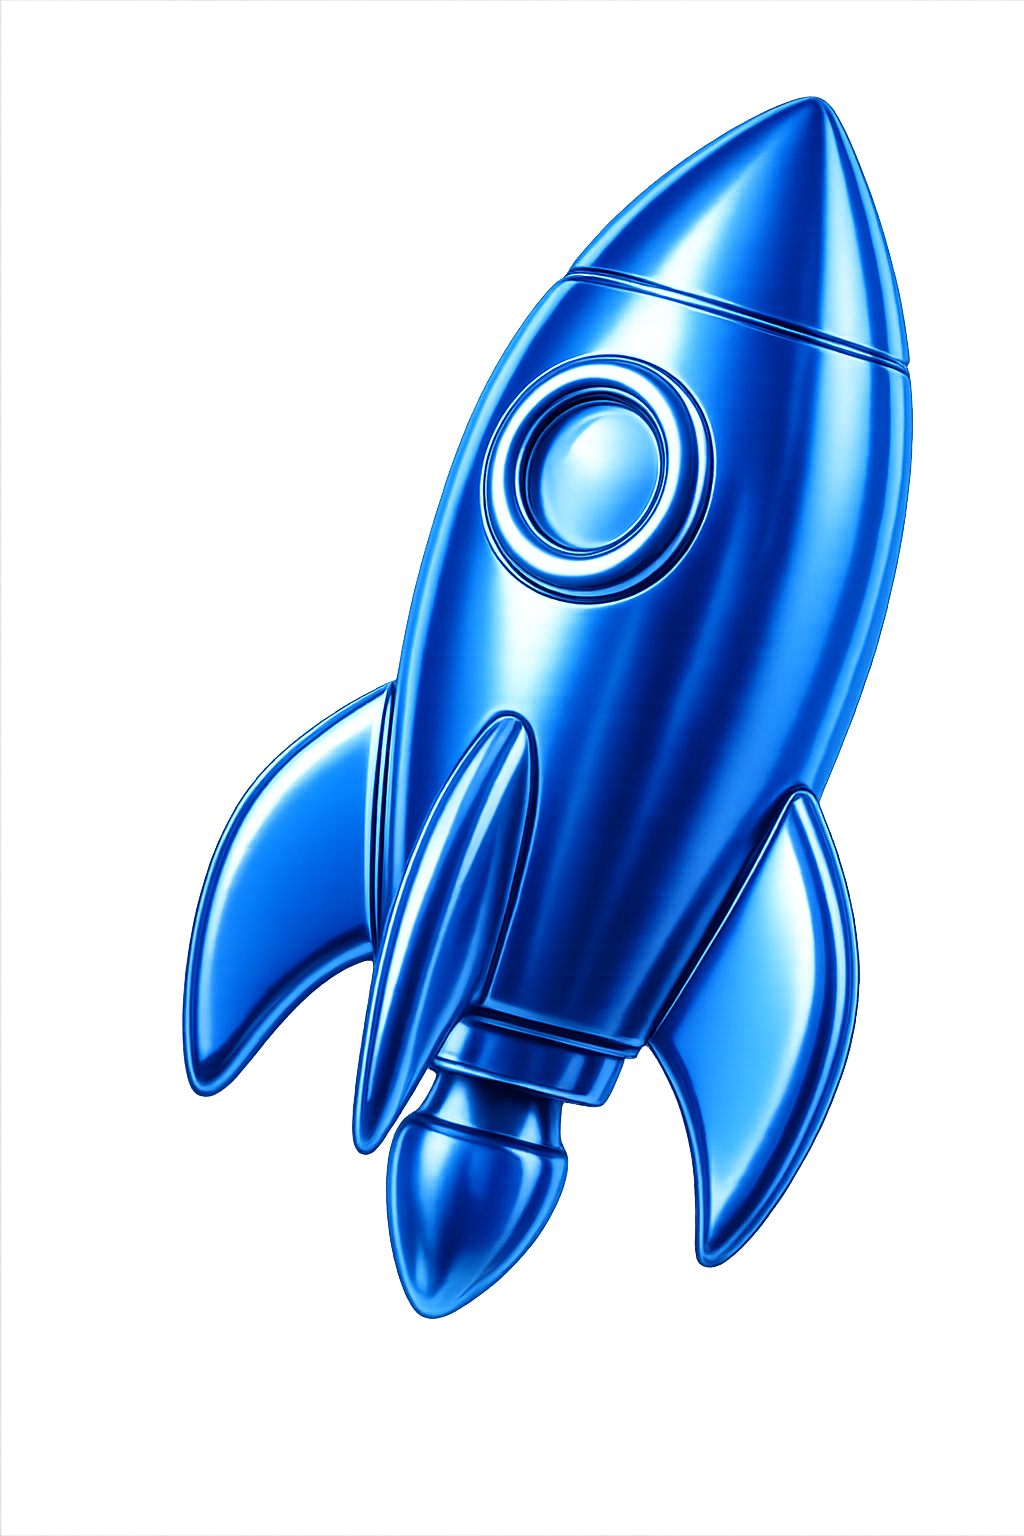
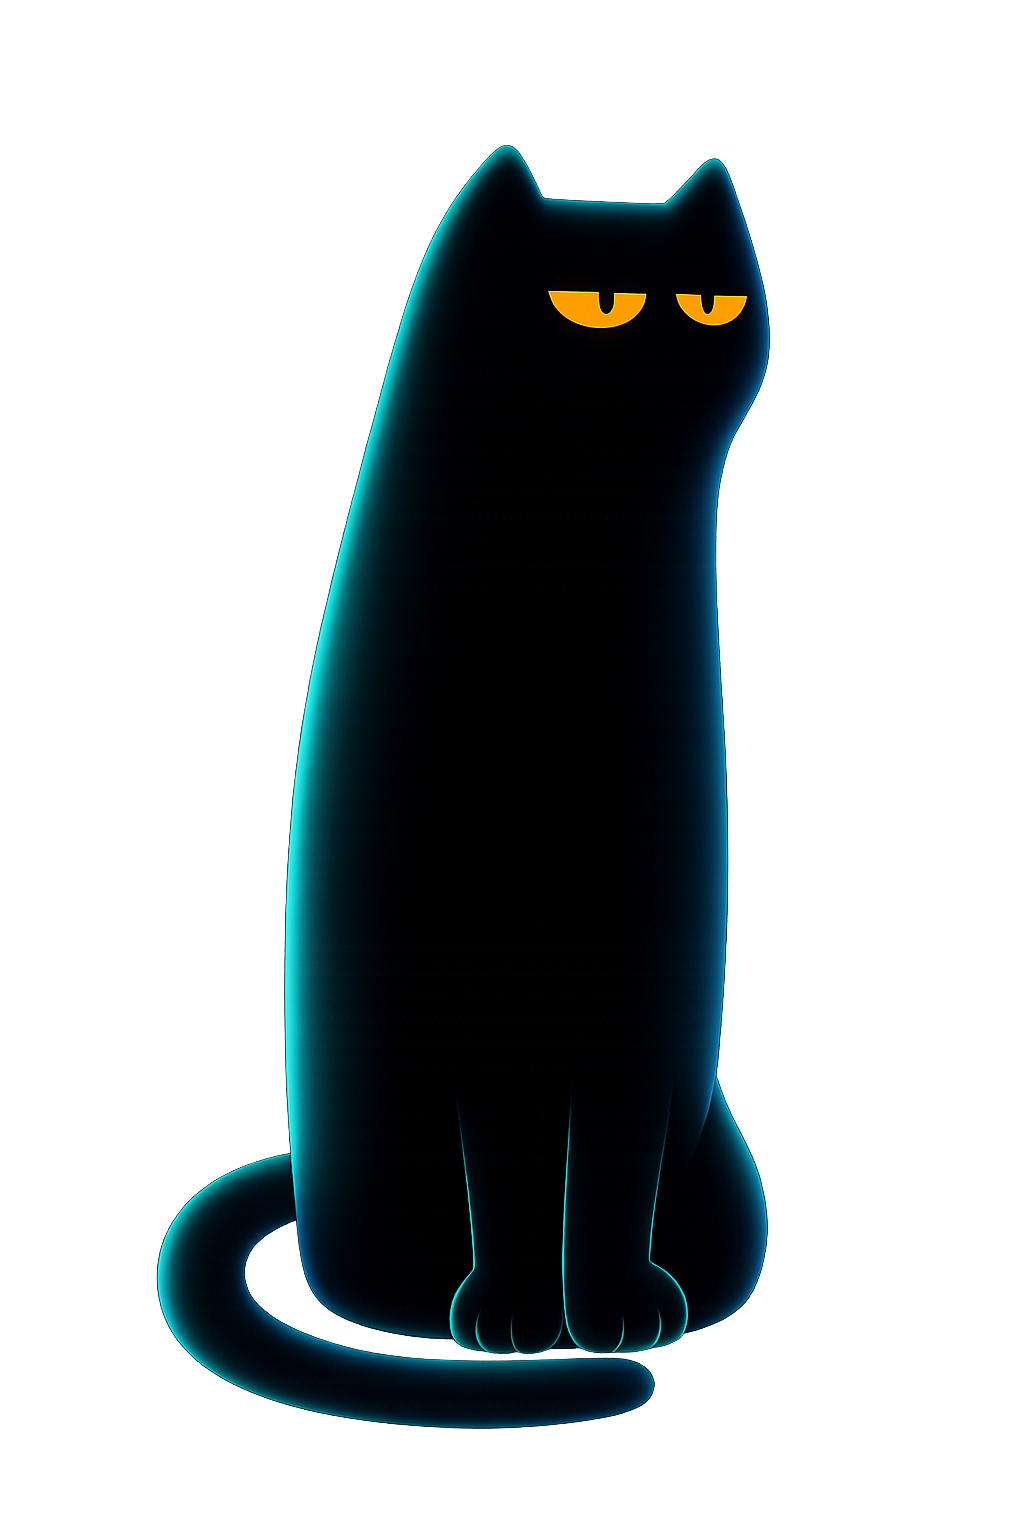
feat: implement core chat interface, auth components, and global state management structure

diff --git a/frontend/src/index.css b/frontend/src/index.css
@@ -36,21 +36,31 @@
   }
 }
 
-@keyframes auth-float-y {
-  0%,
-  100% {
-    transform: translateY(0);
+@theme {
+  --animate-auth-float-y: auth-float-y 4.5s ease-in-out infinite;
+  --animate-auth-shimmer: auth-shimmer 2.5s infinite linear;
+
+  @keyframes auth-float-y {
+    0%,
+    100% {
+      transform: translateY(0);
+    }
+    50% {
+      transform: translateY(-12px);
+    }
   }
-  50% {
-    transform: translateY(-12px);
+
+  @keyframes auth-shimmer {
+    0% {
+      transform: translateX(-100%);
+    }
+    100% {
+      transform: translateX(100%);
+    }
   }
 }
 
-@keyframes auth-shimmer {
-  0% {
-    transform: translateX(-100%);
-  }
-  100% {
-    transform: translateX(100%);
-  }
+/* Enforce fixed text boxes and hide the manual resize handle on all textareas */
+textarea {
+  resize: none !important;
 }

diff --git a/frontend/src/lib/axios.js b/frontend/src/lib/axios.js
@@ -4,3 +4,29 @@ export const axiosInstance = axios.create({
   baseURL: import.meta.env.MODE === "development" ? "http://localhost:3000/api" : "/api",
   withCredentials: true,
 });
+
+let tokenGetter = null;
+
+export const setTokenGetter = (getter) => {
+  tokenGetter = getter;
+};
+
+axiosInstance.interceptors.request.use(
+  async (config) => {
+    if (tokenGetter) {
+      try {
+        const token = await tokenGetter();
+        if (token) {
+          config.headers.Authorization = `Bearer ${token}`;
+        }
+      } catch (error) {
+        console.error("Error fetching Clerk auth token:", error);
+      }
+    }
+    return config;
+  },
+  (error) => {
+    return Promise.reject(error);
+  }
+);
+

diff --git a/frontend/src/pages/ChatPage.jsx b/frontend/src/pages/ChatPage.jsx
@@ -1,5 +1,6 @@
 import { useWallpaper } from "../context/wallpaper";
 import { useChatStore } from "../store/useChatStore";
+import { useAuthStore } from "../store/useAuthStore";
 import { useSelectedConversation } from "../hooks/useSelectedConversation";
 import { useEffect } from "react";
 import ChatSidebar from "../components/chat/ChatSidebar";
@@ -16,6 +17,8 @@ function ChatPage() {
   const subscribeToMessages = useChatStore((state) => state.subscribeToMessages);
   const unsubscribeFromMessages = useChatStore((state) => state.unsubscribeFromMessages);
 
+  const socket = useAuthStore((state) => state.socket);
+
   const { activeConversation, activeConversationId, isLargeScreen } = useSelectedConversation();
 
   useEffect(() => {
@@ -24,14 +27,17 @@ function ChatPage() {
   }, [getConversations, getUsers]);
 
   useEffect(() => {
+    if (!socket) return;
+
+    subscribeToMessages();
+    return () => unsubscribeFromMessages();
+  }, [socket, subscribeToMessages, unsubscribeFromMessages]);
+
+  useEffect(() => {
     if (!activeConversationId) return;
 
     getMessages(activeConversationId);
-    subscribeToMessages(activeConversationId);
-
-    // cleanup
-    return () => unsubscribeFromMessages();
-  }, [getMessages, activeConversationId, subscribeToMessages, unsubscribeFromMessages]);
+  }, [getMessages, activeConversationId]);
 
   return (
     <div className="flex h-dvh flex-col overflow-hidden p-2 sm:p-3 md:p-8" style={frameStyle}>

diff --git a/frontend/src/store/useChatStore.js b/frontend/src/store/useChatStore.js
@@ -80,20 +80,20 @@ export const useChatStore = create(
         }
       },
 
-      subscribeToMessages: (userId) => {
-        if (!userId) return;
-
+      subscribeToMessages: () => {
         const socket = useAuthStore.getState().socket;
         if (!socket) return;
 
         socket.off("newMessage");
         socket.on("newMessage", (newMessage) => {
-          // if im not the receiver don't do anything just return
-          if (String(newMessage.senderId) !== String(userId)) return;
-
-          set({ messages: [...get().messages, newMessage] });
-
+          // Always refresh conversations list so the sidebar updates in real-time
           get().getConversations();
+
+          // If the message is from the active conversation partner, append it to messages
+          const activeId = get().activeConversationId;
+          if (activeId && String(newMessage.senderId) === String(activeId)) {
+            set({ messages: [...get().messages, newMessage] });
+          }
         });
       },
 

diff --git a/frontend/src/App.jsx b/frontend/src/App.jsx
@@ -7,11 +7,12 @@ import { useAuth } from "@clerk/react";
 import PageLoader from "./components/PageLoader";
 import { useAuthStore } from "./store/useAuthStore";
 import { useEffect } from "react";
+import { setTokenGetter } from "./lib/axios";
 
 import { Toaster } from "react-hot-toast";
 
 function App() {
-  const { isSignedIn, isLoaded } = useAuth();
+  const { isSignedIn, isLoaded, getToken } = useAuth();
 
   // option 1
   // const { checkAuth, isCheckingAuth, clearAuth } = useAuthStore();
@@ -20,6 +21,12 @@ function App() {
   const clearAuth = useAuthStore((state) => state.clearAuth);
   const checkAuth = useAuthStore((state) => state.checkAuth);
   const isCheckingAuth = useAuthStore((state) => state.isCheckingAuth);
+
+  useEffect(() => {
+    if (isLoaded) {
+      setTokenGetter(getToken);
+    }
+  }, [isLoaded, getToken]);
 
   useEffect(() => {
     if (!isLoaded) return;

diff --git a/frontend/src/components/auth/AuthHeroPanel.jsx b/frontend/src/components/auth/AuthHeroPanel.jsx
@@ -9,10 +9,10 @@ const heroPanelClassName = [
 ].join(" ");
 
 const heroImageClassName = [
-  "h-auto max-h-[min(44vh,380px)] w-[min(92%,19rem)]",
-  "animate-[auth-float-y_4.5s_ease-in-out_infinite]",
+  "h-auto max-h-[min(50vh,440px)] w-[min(95%,23rem)]",
+  "animate-auth-float-y",
   "object-contain object-center select-none motion-reduce:animate-none",
-  "sm:w-[min(88%,21rem)] md:max-h-[min(52vh,440px)] md:w-[min(90%,22rem)]",
+  "sm:w-[min(92%,26rem)] md:max-h-[min(60vh,520px)] md:w-[min(92%,28rem)]",
 ].join(" ");
 
 export function AuthHeroPanel() {

diff --git a/backend/src/seeds/user.seed.js b/backend/src/seeds/user.seed.js
@@ -1,7 +1,9 @@
 import "dotenv/config";
+import dns from "dns";
+dns.setServers(["1.1.1.1", "8.8.8.8"]);
 
 import mongoose from "mongoose";
-import { connectDB } from "../lib/db.js";
+import connectDB from "../lib/db.js";
 import User from "../models/user.model.js";
 
 const seedUsers = [

diff --git a/frontend/index.html b/frontend/index.html
@@ -2,9 +2,9 @@
 <html lang="en">
   <head>
     <meta charset="UTF-8" />
-    <link rel="icon" type="image/svg+xml" href="/favicon.svg" />
+    <link rel="icon" type="image/png" href="/logo.png" />
     <meta name="viewport" content="width=device-width, initial-scale=1.0" />
-    <title>frontend</title>
+    <title>Chattr - Messaging App </title>
   </head>
   <body>
     <div id="root"></div>

diff --git a/frontend/src/components/auth/AuthActionPanel.jsx b/frontend/src/components/auth/AuthActionPanel.jsx
@@ -30,10 +30,10 @@ export function AuthActionPanel() {
           <div className="relative mb-5">
             <div
               aria-hidden
-              className="absolute -inset-3.5 rounded-[20px] bg-linear-to-br from-accent/22 via-accent/8 to-transparent opacity-90 blur-xl dark:from-accent/28 dark:via-accent/10"
+              className="absolute -inset-4 rounded-[28px] bg-linear-to-br from-accent/22 via-accent/8 to-transparent opacity-90 blur-xl dark:from-accent/28 dark:via-accent/10"
             />
             <div className={logoTileClassName}>
-              <AppLogo size={52} className="rounded-xl" alt="" />
+              <AppLogo size={64} className="size-16 rounded-2xl" alt="" />
             </div>
           </div>
 

diff --git a/frontend/src/components/chat/ChatComposer.jsx b/frontend/src/components/chat/ChatComposer.jsx
@@ -78,7 +78,7 @@ export function ChatComposer() {
         <TextArea
           fullWidth
           variant="secondary"
-          placeholder="iMessage"
+          placeholder="C H A T T R"
           rows={1}
           value={composerText}
           onChange={handleComposerTextChange}
@@ -89,6 +89,7 @@ export function ChatComposer() {
             }
           }}
           className="flex-1 rounded-full"
+          classNames={{ input: "resize-none" }}
         />
 
         <Button variant="primary" isIconOnly isDisabled={!composerText.trim()} onPress={handleSend}>

diff --git a/frontend/src/components/PageLoader.jsx b/frontend/src/components/PageLoader.jsx
@@ -5,7 +5,7 @@ const PageLoader = () => {
   return (
     <div className="flex h-dvh items-center justify-center bg-background text-foreground">
       <div className="flex flex-col items-center gap-4">
-        <AppLogo size={44} className="rounded-xl" />
+        <AppLogo size={56} className="size-14 rounded-2xl" />
 
         <div className="flex items-center gap-2 text-sm font-medium text-muted">
           <LoaderIcon className="size-4 animate-spin text-accent" aria-hidden />

diff --git a/frontend/src/components/auth/AuthHeader.jsx b/frontend/src/components/auth/AuthHeader.jsx
@@ -7,7 +7,7 @@ function AuthHeader() {
   return (
     <header className="sticky top-0 z-10 flex shrink-0 items-center gap-2 border-b border-black/10 bg-[#F6F6F6]/95 px-3 py-2 backdrop-blur-md dark:border-white/10 dark:bg-[#1C1C1E]/95">
       <div className="flex flex-1 items-center gap-2.5 px-1">
-        <AppLogo size={30} className="rounded-[7px]" alt="" />
+        <AppLogo size={38} className="size-9.5 rounded-[9px]" alt="" />
 
         <div>
           <p className="truncate text-[15px] font-semibold leading-tight">{APP_NAME}</p>